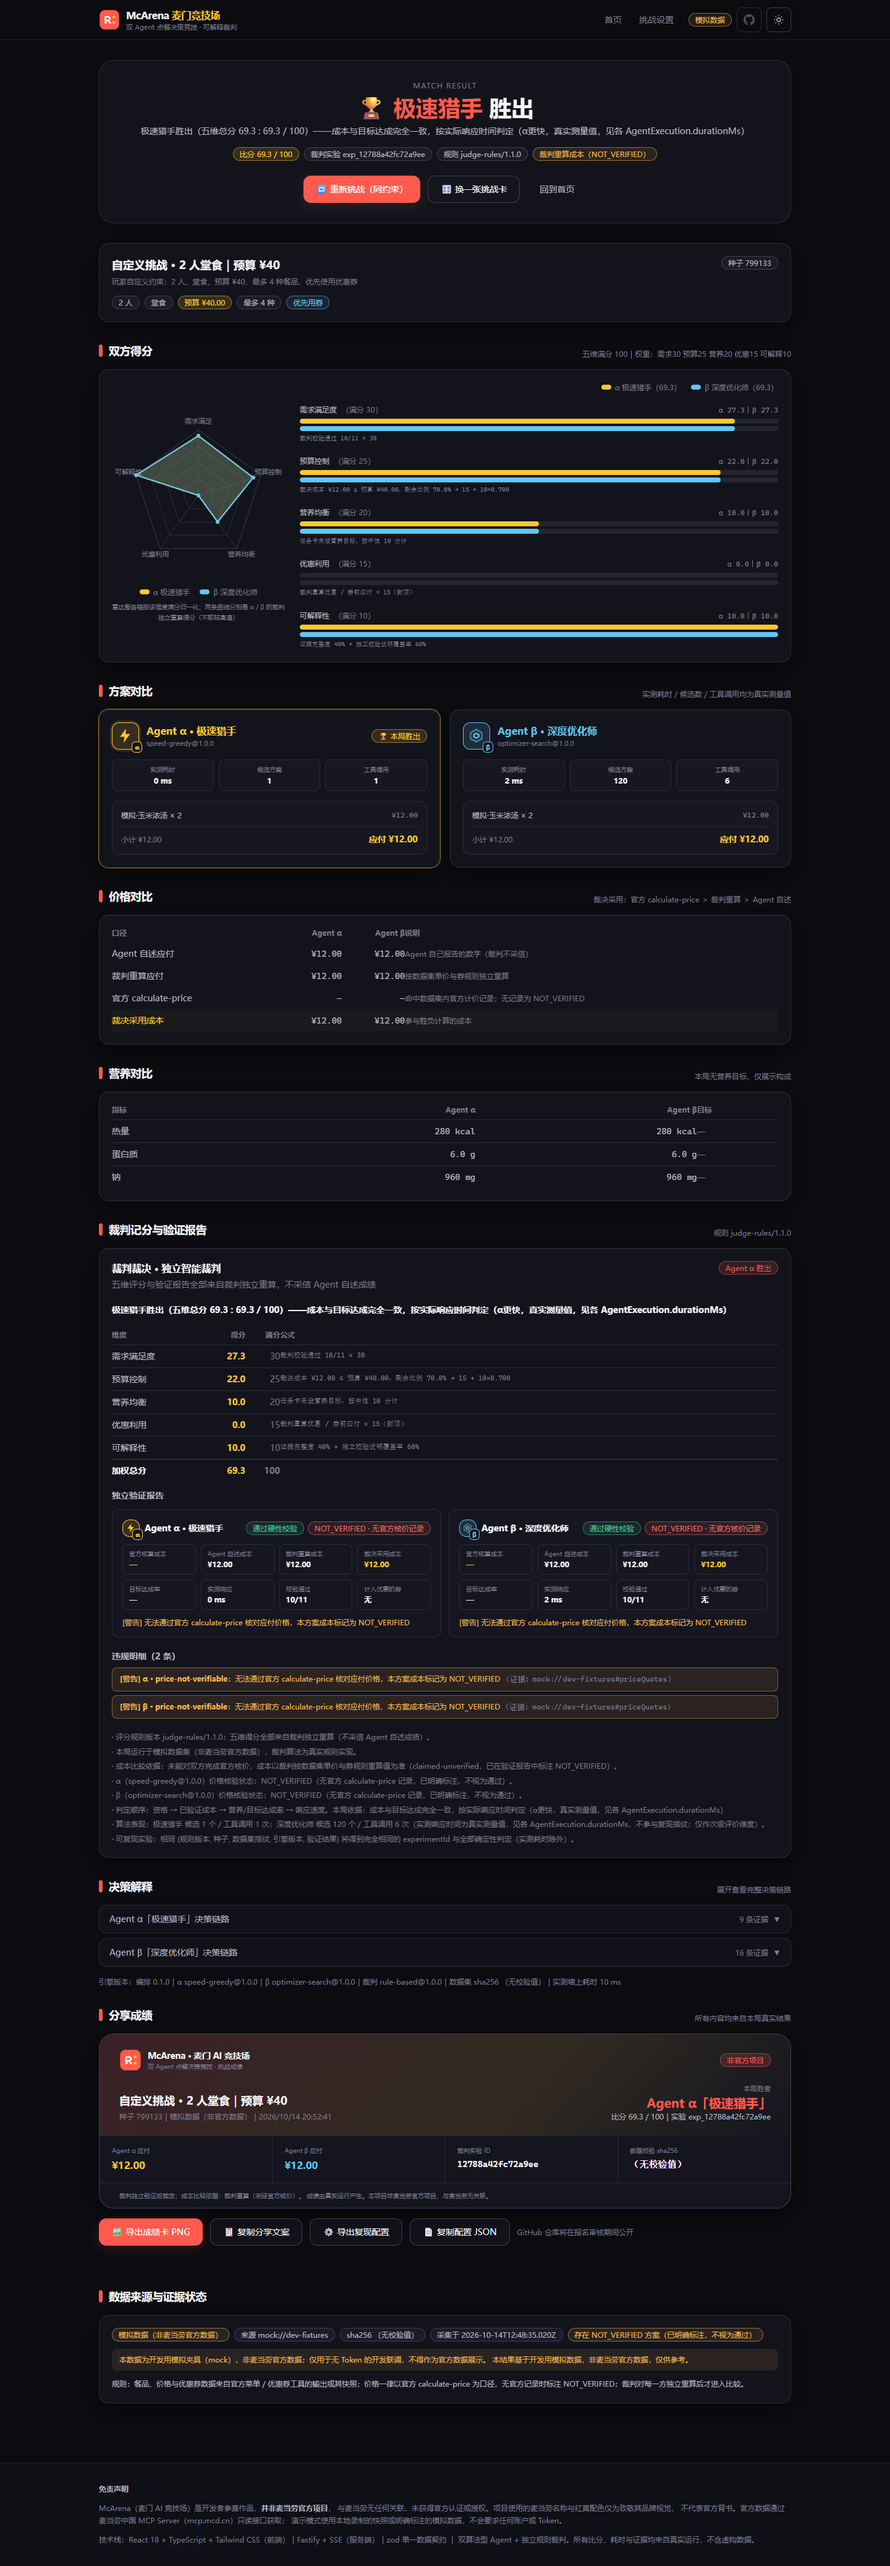
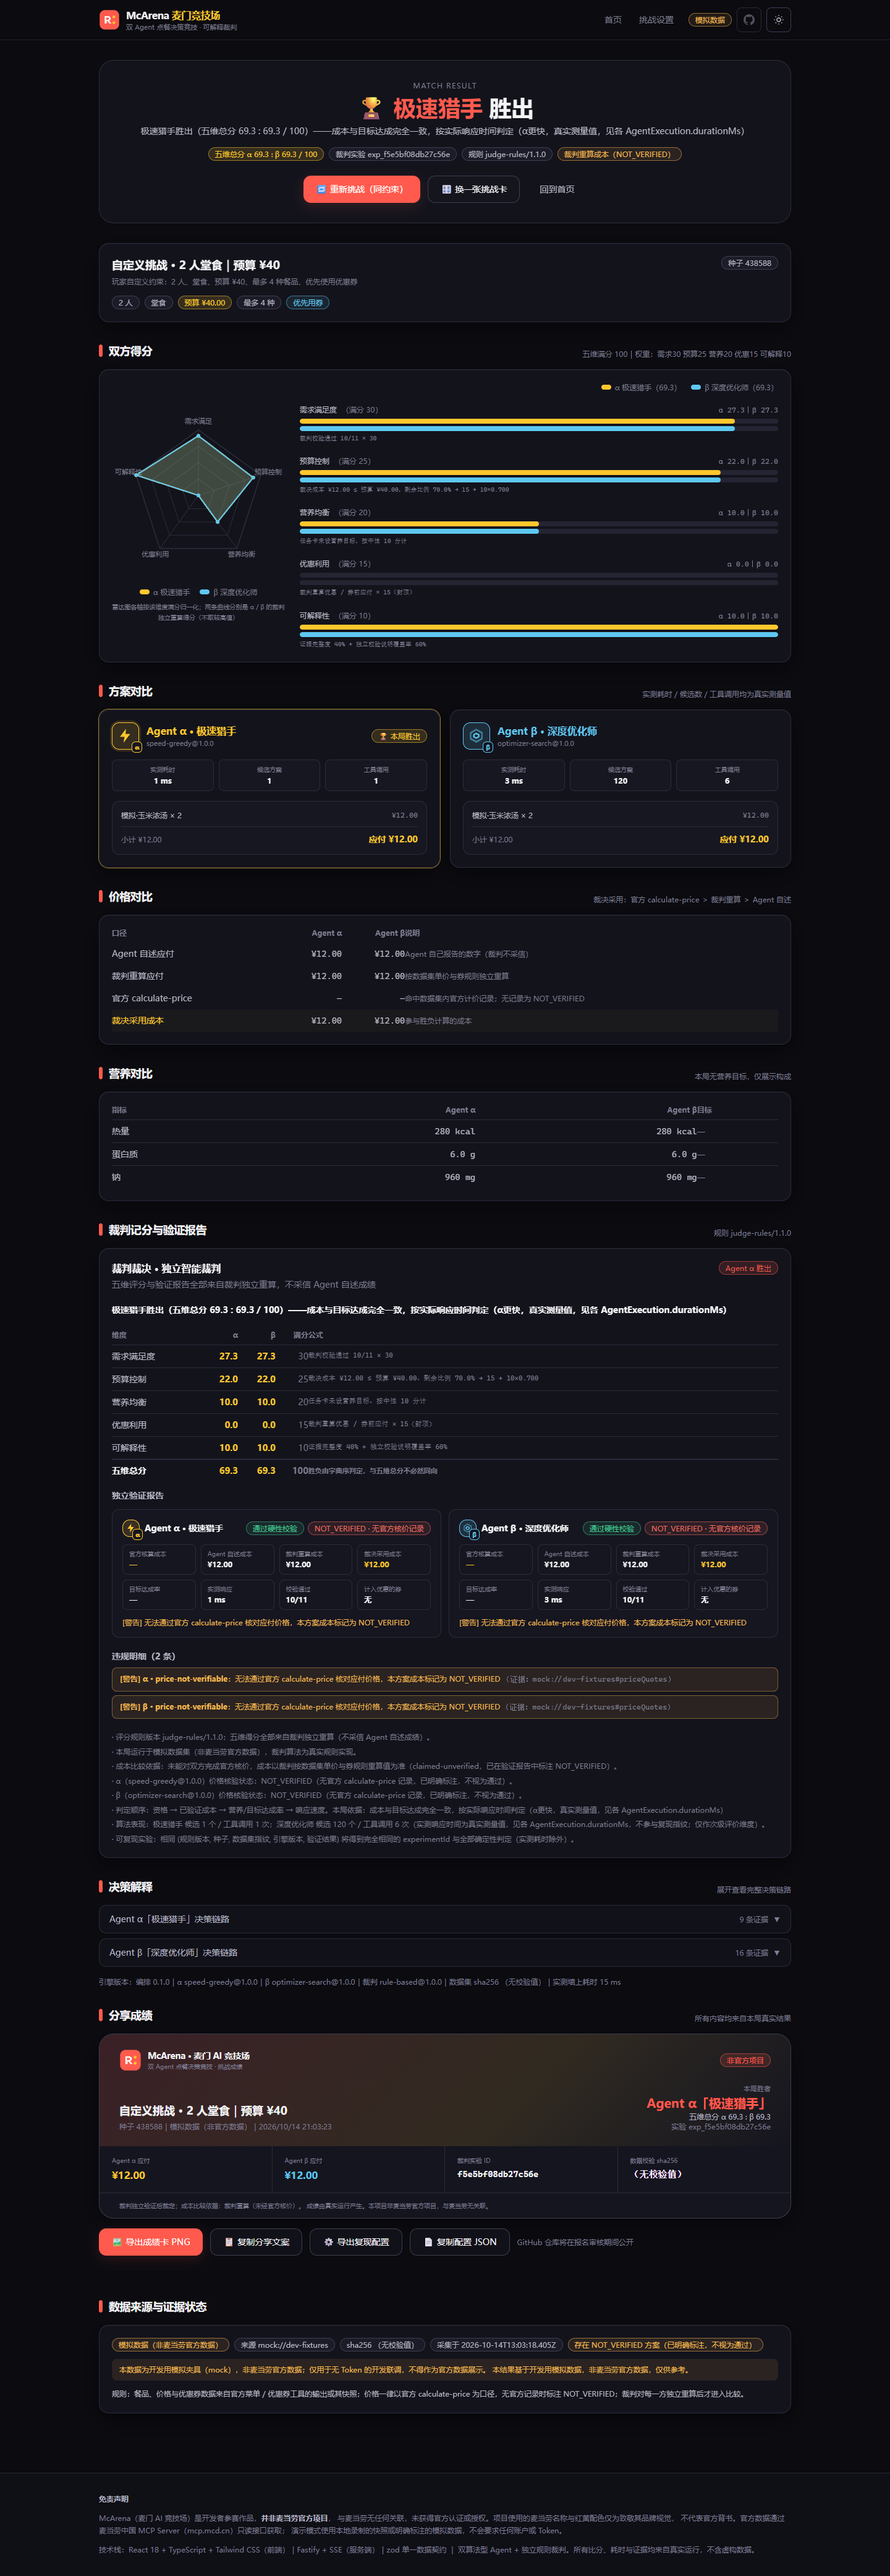
fix(web): 结果页/记分表/分享卡改为并列展示双方五维总分
问题：胜负由字典序（资格→已验证成本→目标达成→速度）判定，与五维总分不必然同向；
但 UI 用 judge.totalScore = max(α, β) 显示「比分」，实测中 α 以五维 62.8 胜出时，
徽章会显示 β 的 79.9 —— 即「🏆 胜出」旁边挂着败方的分数。

修复（四处统一为 α : β 并列展示）：
- ResultPage 胜者横幅徽章：五维总分 α X : β Y / 100
- JudgePanel 记分表：新增 α / β 两列（原「得分」列是双方最高分，易被误读为某一方），
  页脚注明「胜负由字典序判定，与五维总分不必然同向」
- ShareCard 成绩卡：并列展示双方总分
- lib/share.ts 分享文案：并列展示双方总分

同时：阶段06 最终复核（官方校验 Skill is valid! / 重装用户级技能 / 从仓库外 cwd 真实调用
自然语言→解析→跑局全链路 / npm run verify 全绿），结果记入 STAGE_06_REPORT.md §5.7；
STAGE_05_REPORT.md 缺陷表补第 4 条；workbuddy.md 调试表补第 20 条；
重新跑浏览器实测（控制台 0 错误 / 0 警告）并刷新截图与报告。

未 push GitHub。

diff --git a/apps/web/src/components/JudgePanel.tsx b/apps/web/src/components/JudgePanel.tsx
@@ -29,13 +29,14 @@ export function JudgePanel({ judge }: { judge: JudgeResult }) {
       <CardBody className="space-y-5">
         <p className="text-sm font-semibold leading-relaxed text-ink">{judge.headline}</p>
 
-        {/* 五维得分 */}
+        {/* 五维得分（并列展示双方，避免「得分」列被误读为某一方或双方最高分） */}
         <div className="overflow-x-auto">
           <table className="w-full min-w-[560px] text-left text-sm">
             <thead>
               <tr className="text-xs text-ink-3">
                 <th className="pb-2">维度</th>
-                <th className="pb-2 text-right">得分</th>
+                <th className="pb-2 text-right">α</th>
+                <th className="pb-2 text-right">β</th>
                 <th className="pb-2 text-right">满分</th>
                 <th className="pb-2">公式</th>
               </tr>
@@ -44,7 +45,12 @@ export function JudgePanel({ judge }: { judge: JudgeResult }) {
               {judge.dimensions.map((dimension) => (
                 <tr key={dimension.key} className="border-t border-line align-top">
                   <td className="py-2 font-medium text-ink-2">{dimension.label}</td>
-                  <td className="py-2 text-right font-bold text-gold">{dimension.score.toFixed(1)}</td>
+                  <td className="py-2 text-right font-bold text-gold">
+                    {(judge.agentScores[0].dimensions[dimension.key] ?? 0).toFixed(1)}
+                  </td>
+                  <td className="py-2 text-right font-bold text-gold">
+                    {(judge.agentScores[1].dimensions[dimension.key] ?? 0).toFixed(1)}
+                  </td>
                   <td className="py-2 text-right text-ink-3">{dimension.max}</td>
                   <td className="py-2 font-mono text-[11px] leading-relaxed text-ink-3">{dimension.formula}</td>
                 </tr>
@@ -52,10 +58,11 @@ export function JudgePanel({ judge }: { judge: JudgeResult }) {
             </tbody>
             <tfoot>
               <tr className="border-t border-line-strong font-semibold">
-                <td className="pt-2 text-ink">加权总分</td>
-                <td className="pt-2 text-right text-gold">{judge.totalScore.toFixed(1)}</td>
+                <td className="pt-2 text-ink">五维总分</td>
+                <td className="pt-2 text-right text-gold">{judge.agentScores[0].total.toFixed(1)}</td>
+                <td className="pt-2 text-right text-gold">{judge.agentScores[1].total.toFixed(1)}</td>
                 <td className="pt-2 text-right text-ink-3">{judge.totalMax}</td>
-                <td />
+                <td className="pt-2 text-[11px] text-ink-3">胜负由字典序判定，与五维总分不必然同向</td>
               </tr>
             </tfoot>
           </table>

diff --git a/apps/web/src/pages/ResultPage.tsx b/apps/web/src/pages/ResultPage.tsx
@@ -74,7 +74,12 @@ export function ResultPage({ navigate }: { navigate: (route: 'home' | 'setup' | 
         </p>
         <p className="mt-2 text-sm text-ink-2">{result.judge.headline}</p>
         <div className="mt-4 flex flex-wrap items-center justify-center gap-2">
-          <Badge tone="gold">比分 {result.judge.totalScore.toFixed(1)} / {result.judge.totalMax}</Badge>
+          {/* 注意：胜负由字典序（资格→已验证成本→目标达成→速度）决定，与五维总分不必然同向，
+              因此这里必须并列展示双方得分，不能用 judge.totalScore（那是双方较高分，可能属于败方）。 */}
+          <Badge tone="gold">
+            五维总分 α {result.judge.agentScores[0].total.toFixed(1)} : β {result.judge.agentScores[1].total.toFixed(1)} /{' '}
+            {result.judge.totalMax}
+          </Badge>
           <Badge tone="neutral">裁判实验 {result.judge.experimentId}</Badge>
           <Badge tone="neutral">规则 {result.judge.rulesVersion}</Badge>
           <Badge tone={result.judge.costBasis === 'official-verified' ? 'ok' : 'warn'}>

diff --git a/apps/web/src/lib/share.ts b/apps/web/src/lib/share.ts
@@ -44,7 +44,7 @@ export function shareText(result: MatchResult): string {
   const lines = [
     '🍔【麦门 AI 竞技场 · 挑战成绩】',
     `任务卡：${result.challenge.title}（种子 ${result.seed}）`,
-    `胜者：${winnerLabel}｜比分 ${result.judge.totalScore.toFixed(1)} / 100`,
+    `胜者：${winnerLabel}｜五维总分 α ${result.judge.agentScores[0].total.toFixed(1)} : β ${result.judge.agentScores[1].total.toFixed(1)} / ${result.judge.totalMax}`,
     `应付价格：α ${yuan(alpha?.proposal?.totalCents ?? null)}｜β ${yuan(beta?.proposal?.totalCents ?? null)}`,
     `裁判实验 ID：${result.judge.experimentId}`,
     `数据来源：${result.dataOrigin === 'mock' ? '模拟数据（非麦当劳官方数据）' : result.dataset.sourceRef}｜sha256 ${shortHash(result.dataset.sha256)}`,

diff --git a/apps/web/src/components/ShareCard.tsx b/apps/web/src/components/ShareCard.tsx
@@ -73,8 +73,10 @@ export function ShareCard({ result }: { result: MatchResult }) {
               <p className="text-[11px] text-ink-3">本局胜者</p>
               <p className="text-xl font-black text-brand">{winnerName}</p>
               <p className="text-xs text-ink-2">
-                比分 {result.judge.totalScore.toFixed(1)} / 100｜实验 {result.judge.experimentId}
+                五维总分 α {result.judge.agentScores[0].total.toFixed(1)} : β{' '}
+                {result.judge.agentScores[1].total.toFixed(1)}
               </p>
+              <p className="text-xs text-ink-3">实验 {result.judge.experimentId}</p>
             </div>
           </div>
         </div>

diff --git a/STAGE_06_REPORT.md b/STAGE_06_REPORT.md
@@ -239,6 +239,25 @@ exit=3
 | `docs/evidence/stage06/sample-match-result.json` | 完整比赛记录（40.7 KB，含全部证据与验证明细） |
 | `docs/evidence/stage06/01~04-*.txt/json` | 上述真实输出存档 |
 
+### 5.7 最终复核（10/14 20:59，提交 `7ce9235` 之后）
+
+在阶段05 浏览器实测完成后对阶段06 做了完整复核：
+
+| 复核项 | 命令 | 结果 |
+|---|---|---|
+| 官方规范校验 | `python quick_validate.py skill/mc-arena` | `Skill is valid!` |
+| 重新安装到用户级 | `node skill/mc-arena/scripts/install.mjs` | 完成，写入 `.mcarena-root` |
+| 已安装文件完整性 | `find ~/.workbuddy-ai/skills/mc-arena -type f` | 10 个文件（SKILL.md / INSTALL.md / scripts×3 / references×4 / .mcarena-root） |
+| 自然语言解析（**仓库外 cwd**） | `node <已安装>/scripts/parse-request.mjs "3个人 预算60 要低卡 外带"` | `--people 3 --budget 60 --scene take-away --goal low-cal` |
+| 真实跑局（**仓库外 cwd**） | 上一步参数 → `run-match.mjs ... --seed 2026 --json` | `ok:true`；任务卡「自定义挑战 · 3 人外带｜预算 ¥60、人均 450 kcal」；α `speed-greedy@1.0.0` 候选 1 / β `optimizer-search@1.0.0` 候选 274；`experimentId exp_ba4c0b472cb24851` |
+| 全量门禁 | `npm run verify` | exit 0；测试 **189/189**；typecheck 0 错；lint 0 error；build 成功 |
+
+复核中发现并修复的展示缺陷（属阶段05 范围，已记入 `STAGE_05_REPORT.md` 与 `workbuddy.md`）：
+
+> 结果页「🏆 胜出」旁徽章用 `judge.totalScore = max(α, β)` 显示「比分」，**可能显示败方分数**
+> （实测中 α 以五维 62.8 胜出时，徽章会显示 β 的 79.9）。已在四处改为并列展示 α : β
+> （结果页徽章 / `JudgePanel` 记分表新增两列 / 分享卡 / 分享文案），并注明「胜负由字典序判定，与五维总分不必然同向」。
+
 ---
 
 ## 六、实际限制与替代方案（如实记录）
@@ -303,6 +322,7 @@ exit=3
 | 5 | 失败时仍打印「已启用默认产物输出」 | 提示在 spawn 前输出 | 改为仅在子进程退出码为 0 时输出 |
 | 6 | 子进程测试偶发 5s 超时 | 默认 `testTimeout` 过短 | `describe(..., { timeout })` 显式放宽 |
 | 7 | 批量编辑部分未落盘 | 编辑工具批量替换部分失效 | 改为逐条编辑 + `grep` 复核 |
+| 8 | 结果页「🏆 胜出」旁徽章显示 `比分 69.3 / 100`，可能**显示败方分数** | `judge.totalScore = max(α, β)` 被当作「本局比分」，而胜负由字典序决定、与五维总分不必然同向 | 四处改为并列展示 α : β（结果页徽章 / `JudgePanel` 记分表新增两列 / 分享卡 / 分享文案） |
 
 ---
 

diff --git a/STAGE_05_REPORT.md b/STAGE_05_REPORT.md
@@ -99,6 +99,7 @@ NODE_PATH="<隔离工作区>/node_modules" node tools/e2e/visual-check.mjs
 | 1 | 首页「对决双方」区域 **α 卡片被挤成窄条**，标题逐字换行、区块被拉得极高 | CSS Grid 模板为 `[1fr auto 1fr]`，但 DOM 顺序是 **α、β、VS** —— VS 落在第 3 条轨道，β 落在中间的 `auto` 轨道被内容撑到最大 | 调整 DOM 顺序为 **α → VS → β**，模板改为 `[minmax(0,1fr)_auto_minmax(0,1fr)]`（允许轨道收缩到内容宽度以下），并给标题容器加 `min-w-0` + `break-words` |
 | 2 | 浏览器控制台 404 错误（`Failed to load resource`） | `index.html` 未声明 favicon，浏览器自动请求 `/favicon.ico` 得 404 | 内联 SVG data-URI favicon（零额外请求），同时补 `color-scheme` 与 `description` meta |
 | 3 | 结果页雷达图说明文案与实现不符（写「维度得分取双方较高值」，实际已改为双方各自得分） | 阶段05 后期把雷达图数据源从 `judge.dimensions`（双方最高分）改为 `judge.agentScores`（单方真实得分）时，说明文案未同步 | 文案改为「两条曲线分别是 α / β 的裁判独立重算得分（不取较高值）」 |
+| 4 | 结果页「🏆 XX 胜出」旁的徽章显示 **`比分 69.3 / 100`**，但该值取自 `judge.totalScore = max(α, β)`，**可能显示的是败方分数**（例如 α 以 62.8 胜出时徽章会显示 β 的 79.9） | 胜负由字典序（资格→已验证成本→目标达成→速度）决定，与五维总分不必然同向；徽章却用了「双方较高分」 | 四处统一改为并列展示双方得分：结果页徽章、`JudgePanel` 记分表（新增 α/β 两列）、分享卡、分享文案；记分表页脚注明「胜负由字典序判定，与五维总分不必然同向」 |
 
 > 修复 #1 前，第一轮实测截图已保存为对照（同一次流程中重跑覆盖）。该缺陷若未修复，首页在 1440 宽屏下会明显「半边空、半边挤」，属于典型的网格轨道误用。
 

diff --git a/workbuddy.md b/workbuddy.md
@@ -128,6 +128,7 @@
 | 17 | 05（实测） | 首页「对决双方」α 卡片被挤成窄条、标题逐字换行、区块被拉得极高 | Grid 模板为 `[1fr auto 1fr]`，但 DOM 顺序是 α、β、VS —— VS 落在第 3 轨，β 落在中间 `auto` 轨被撑到最大 | DOM 改为 α → VS → β；模板改 `[minmax(0,1fr)_auto_minmax(0,1fr)]`；标题容器加 `min-w-0` + `break-words` |
 | 18 | 05（实测） | 浏览器控制台 404（`Failed to load resource`） | `index.html` 未声明 favicon，浏览器自动请求 `/favicon.ico` | 内联 SVG data-URI favicon，并补 `color-scheme` / `description` meta |
 | 19 | 05（实测） | 结果页雷达图说明与实现不符（写「取双方较高值」，实际已用单方得分） | 后期把数据源从 `judge.dimensions` 改为 `judge.agentScores` 时未同步文案 | 文案改为「两条曲线分别是 α / β 的裁判独立重算得分（不取较高值）」 |
+| 20 | 06（复核） | 结果页「🏆 胜出」旁徽章显示 `比分 69.3 / 100`，但 `judge.totalScore = max(α, β)` **可能显示败方分数**（α 以 62.8 胜出时徽章显示 β 的 79.9） | 胜负由字典序决定、与五维总分不必然同向，徽章却用了双方较高分 | 四处改为并列展示 α : β（结果页徽章 / JudgePanel 记分表新增两列 / 分享卡 / 分享文案），并在页脚注明「胜负由字典序判定，与五维总分不必然同向」 |
 
 ---
 
